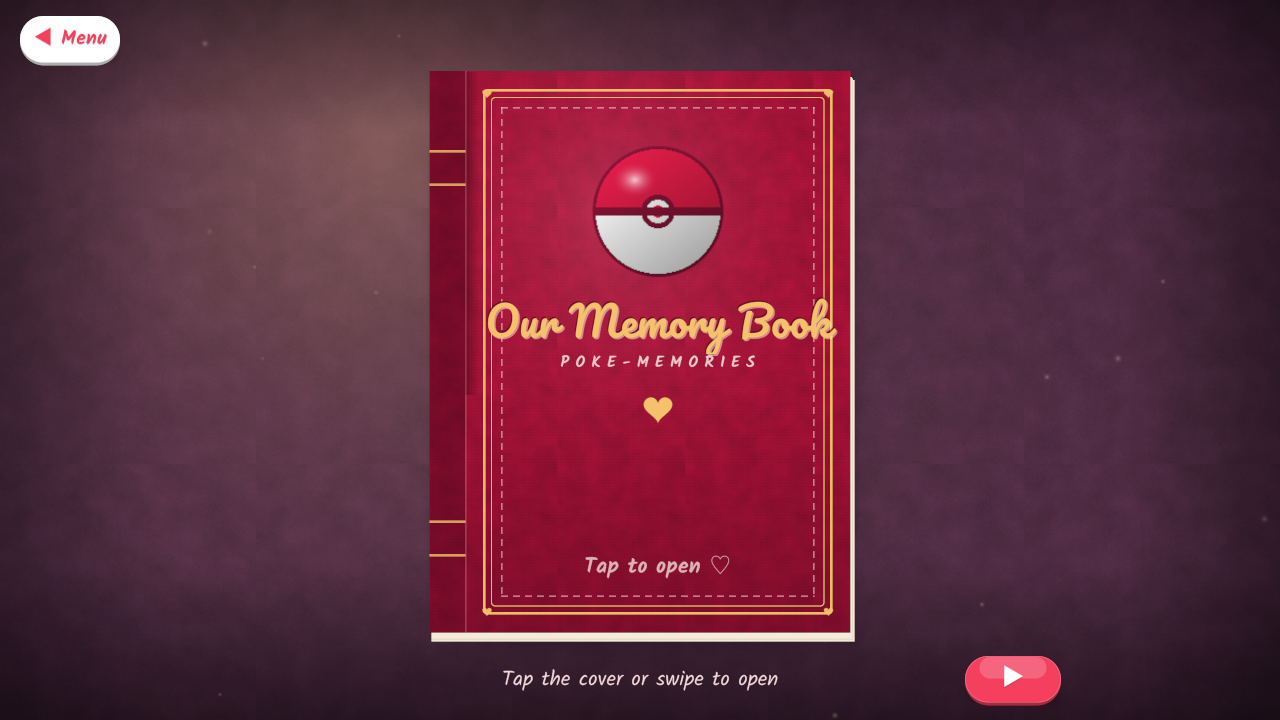
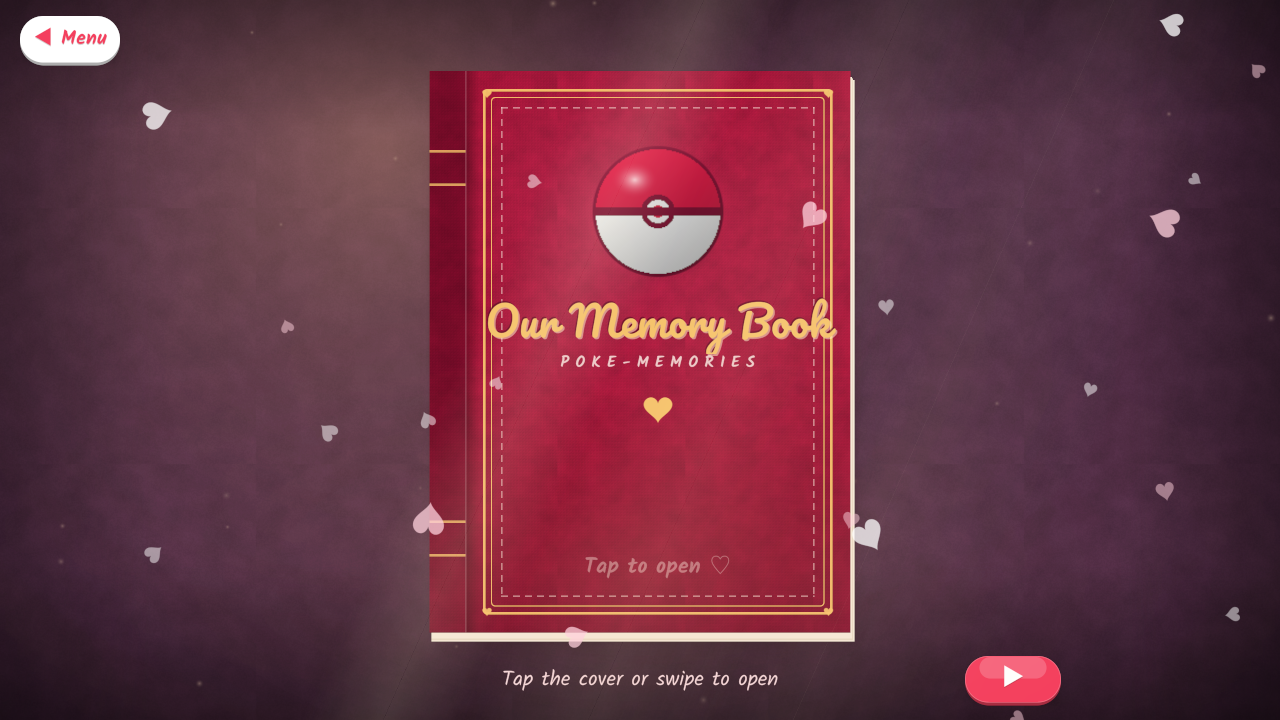
Polish: HUD, run-end card, petals and sun shafts; before/after screenshots

diff --git a/unity/Assets/Scripts/Gameplay/CourseGame.cs b/unity/Assets/Scripts/Gameplay/CourseGame.cs
@@ -462,72 +462,155 @@ namespace PokeMemories.Gameplay
         }
 
         // Cream drop shadow keeps the HUD readable over both the pale and the dark backgrounds.
-        static void ShadowLabel(Rect rect, string text, GUIStyle style)
+        static void ShadowLabel(Rect rect, string text, float size, Color colour, Font font = null, TextAnchor anchor = TextAnchor.MiddleCenter) =>
+            UIKit.ShadowLabel(rect, text, size, colour, UIKit.WithAlpha(UIKit.Hex("#5a0a22"), 0.55f), Mathf.Max(1.5f, size / 16f), anchor, false, FontStyle.Bold, font);
+
+        // Big centre-screen messages: deep rose letters with a cream halo read on every backdrop.
+        static void Message(Rect rect, string text, float size, Font font = null) =>
+            UIKit.ShadowLabel(rect, text, size, UIKit.Hex("#be123c"), UIKit.WithAlpha(UIKit.Hex("#fff3ec"), 0.95f), Mathf.Max(2f, size / 12f), TextAnchor.MiddleCenter, false, FontStyle.Bold, font);
+
+        static readonly Color Cream = new(1f, 0.96f, 0.93f);
+
+        /// <summary>A frosted rose capsule that holds HUD readouts.</summary>
+        static void Glass(Rect r, float alpha = 0.5f)
         {
-            var colour = style.normal.textColor;
-            style.normal.textColor = new Color(1f, 0.96f, 0.93f);
-            var offset = Mathf.Max(1f, style.fontSize / 14f);
-            GUI.Label(new Rect(rect.x + offset, rect.y + offset, rect.width, rect.height), text, style);
-            style.normal.textColor = colour;
-            GUI.Label(rect, text, style);
+            Look.Shadow(r, 8 * (r.height / 56f), 0.25f, new Vector2(0, 4));
+            Look.Round(r, UIKit.WithAlpha(UIKit.Hex("#6b1233"), alpha), r.height / 2);
+            Look.Round(new Rect(r.x + r.height * 0.25f, r.y + 2, r.width - r.height * 0.5f, r.height * 0.42f), UIKit.WithAlpha(Color.white, 0.12f), r.height * 0.21f);
+            Look.RoundOutline(r, UIKit.WithAlpha(Color.white, 0.35f), r.height / 2, 1.5f);
         }
+
+        /// <summary>A round glass button that dips when pressed; the rect doubles as its touch target.</summary>
+        static void GlassButton(Rect r, string text, float size, bool on, string key)
+        {
+            var over = r.Contains(UIInput.Position);
+            var down = over && UIInput.Pressed;
+            var press = Look.Spring("g" + key, down ? 1 : 0, 30);
+            var rect = new Rect(r.x + r.width * 0.02f * press, r.y + r.height * 0.02f * press, r.width * (1 - 0.04f * press), r.height * (1 - 0.04f * press));
+            Look.Shadow(rect, 8, 0.25f, new Vector2(0, 4 - press * 2));
+            Look.Round(rect, UIKit.WithAlpha(on ? UIKit.Hex("#f43f5e") : UIKit.Hex("#6b1233"), on ? 0.85f : 0.5f + press * 0.2f), rect.height * 0.5f);
+            Look.Round(new Rect(rect.x + rect.height * 0.2f, rect.y + 2, rect.width - rect.height * 0.4f, rect.height * 0.42f), UIKit.WithAlpha(Color.white, 0.14f), rect.height * 0.21f);
+            Look.RoundOutline(rect, UIKit.WithAlpha(Color.white, 0.4f), rect.height * 0.5f, 1.5f);
+            UIKit.Label(rect, text, size, Cream);
+        }
+
+        float resultTime;
 
         void OnGUI()
         {
             if (menu.Screen != GameScreen.Playing) return;
+            Look.Ensure();
+            if (!sim.Ended) resultTime = 0;
+            if (Event.current.type != EventType.Repaint) return;
             var scale = Screen.height / 720f;
-            var label = new GUIStyle(GUI.skin.label) { fontSize = Mathf.RoundToInt(30 * scale), fontStyle = FontStyle.Bold };
-            label.normal.textColor = new Color(0.75f, 0.1f, 0.4f);
+            var t = Time.unscaledTime;
 
-            var hearts = new string('♥', Mathf.Max(0, sim.Hearts)) + new string('♡', 3 - Mathf.Max(0, sim.Hearts));
-            var progress = mode == PlayMode.Course ? $"   {Mathf.RoundToInt(sim.Distance / CourseSimulation.CourseLength * 100)}%" : "";
-            ShadowLabel(new Rect(20 * scale, 14 * scale, Screen.width, 50 * scale),
-                $"{hearts}   ◓ {sim.Collected}   ★ {Mathf.RoundToInt(sim.TrickScore)}{progress}", label);
+            // Top-left readouts: hearts, pokeballs, trick score, and the course progress bar.
+            var hud = new Rect(16 * scale, 14 * scale, (mode == PlayMode.Course ? 400 : 330) * scale, 56 * scale);
+            Glass(hud);
+            for (var i = 0; i < 3; i++)
+            {
+                var full = i < sim.Hearts;
+                var c = new Vector2(hud.x + (28 + i * 34) * scale, hud.center.y);
+                if (full) Look.Tex(new Rect(c.x - 18 * scale, c.y - 15 * scale, 36 * scale, 36 * scale), Look.Glow, UIKit.WithAlpha(UIKit.Hex("#ff6b8f"), 0.35f));
+                Look.HeartAt(c, 26 * scale, full ? UIKit.Hex("#ff5c82") : UIKit.WithAlpha(Cream, 0.25f));
+            }
+            var ball = new Rect(hud.x + 126 * scale, hud.y + 13 * scale, 30 * scale, 30 * scale);
+            Look.Ball(ball);
+            UIKit.Label(new Rect(ball.xMax + 6 * scale, hud.y, 56 * scale, hud.height), $"{sim.Collected}", 28 * scale, Cream, TextAnchor.MiddleLeft);
+            var star = new Rect(hud.x + 232 * scale, hud.y + 14 * scale, 28 * scale, 28 * scale);
+            Look.Tex(star, Look.Sparkle, UIKit.Hex("#ffd36b"));
+            UIKit.Label(new Rect(star.xMax + 6 * scale, hud.y, 80 * scale, hud.height), $"{Mathf.RoundToInt(sim.TrickScore)}", 28 * scale, Cream, TextAnchor.MiddleLeft);
+            if (mode == PlayMode.Course)
+            {
+                var pct = Mathf.Clamp01(sim.Distance / CourseSimulation.CourseLength);
+                var bar = new Rect(hud.x + 20 * scale, hud.yMax + 10 * scale, hud.width - 40 * scale, 12 * scale);
+                Look.Shadow(bar, 4 * scale, 0.25f, new Vector2(0, 2));
+                Look.Round(bar, UIKit.WithAlpha(UIKit.Hex("#6b1233"), 0.55f), bar.height / 2);
+                if (pct > 0.01f)
+                {
+                    var fill = new Rect(bar.x, bar.y, Mathf.Max(bar.height, bar.width * pct), bar.height);
+                    Look.Round(fill, UIKit.Hex("#ff7f9c"), bar.height / 2);
+                    Look.Round(new Rect(fill.x + 3, fill.y + 1.5f, fill.width - 6, bar.height * 0.35f), UIKit.WithAlpha(Color.white, 0.4f), bar.height * 0.17f);
+                }
+                Look.HeartAt(new Vector2(bar.x + Mathf.Max(bar.height / 2, bar.width * pct), bar.center.y), 22 * scale, Cream);
+                UIKit.Label(new Rect(bar.xMax - 60 * scale, bar.yMax + 2 * scale, 60 * scale, 22 * scale), $"{Mathf.RoundToInt(pct * 100)}%", 16 * scale, Cream, TextAnchor.MiddleRight);
+            }
 
-            var center = new GUIStyle(label) { alignment = TextAnchor.MiddleCenter, fontSize = Mathf.RoundToInt(34 * scale) };
+            var title = Screen.height * 0.2f;
             if (!started)
             {
-                ShadowLabel(new Rect(0, Screen.height * 0.22f, Screen.width, 60 * scale), "Tap to start skating ♡", center);
-                ShadowLabel(new Rect(0, Screen.height * 0.22f + 55 * scale, Screen.width, 50 * scale),
-                    "Tap = jump (hold for higher) · land on rails to grind · tricks in the air", new GUIStyle(center) { fontSize = Mathf.RoundToInt(22 * scale) });
+                var bob = Mathf.Sin(t * 2.4f) * 4 * scale;
+                                Message(new Rect(0, title + bob, Screen.width, 70 * scale), "Tap to start skating", 48 * scale, Look.Title);
+                Message(new Rect(0, title + 66 * scale, Screen.width, 44 * scale),
+                    "Tap = jump (hold for higher) · land on rails to grind · tricks in the air", 22 * scale);
             }
             else if (sim.Ended)
             {
-                // A soft plate keeps the result readable over the dark sunset backdrops.
-                var plateWidth = Mathf.Min(Screen.width * 0.9f, 700 * scale);
-                UIKit.Fill(new Rect((Screen.width - plateWidth) / 2, Screen.height * 0.25f - 14 * scale, plateWidth, 250 * scale), UIKit.WithAlpha(Color.white, 0.55f));
-                ShadowLabel(new Rect(0, Screen.height * 0.25f, Screen.width, 60 * scale),
-                    sim.Completed ? "Sunset Course cleared! ♡" : "Out of hearts", center);
-                ShadowLabel(new Rect(0, Screen.height * 0.25f + 60 * scale, Screen.width, 50 * scale), "Tap to skate again", center);
-                var small = new GUIStyle(center) { fontSize = Mathf.RoundToInt(24 * scale) };
-                if (lastReward is { Earned: > 0 } reward)
-                {
-                    ShadowLabel(new Rect(0, Screen.height * 0.25f + 110 * scale, Screen.width, 40 * scale),
-                        $"You unlocked {reward.Earned} new {(reward.Earned == 1 ? "memory" : "memories")} ♡", small);
-                    bookButton = new Rect((Screen.width - 280 * scale) / 2, Screen.height * 0.25f + 160 * scale, 280 * scale, 60 * scale);
-                    UIKit.Button(bookButton, "Open Memory Book ♡", UIKit.Rose500, Color.white, 24 * scale);
-                }
-                else if (lastReward != null && !SaveStore.AllUnlocked)
-                    ShadowLabel(new Rect(0, Screen.height * 0.25f + 110 * scale, Screen.width, 40 * scale),
-                        $"{SaveStore.BallsToNextMemory} more Pokeballs to your next memory", small);
+                DrawResult(scale, t);
             }
             else if (sim.FeedbackTime > 0)
-                ShadowLabel(new Rect(0, Screen.height * 0.18f, Screen.width, 60 * scale), sim.Feedback, center);
+            {
+                var pop = Look.EaseOutBack(1 - Mathf.Clamp01(sim.FeedbackTime / 1.0f) + 0.35f);
+                var m = GUI.matrix;
+                GUIUtility.ScaleAroundPivot(Vector2.one * Mathf.Lerp(0.85f, 1f, Mathf.Clamp01(pop)), new Vector2(Screen.width / 2f, Screen.height * 0.18f + 30 * scale));
+                Message(new Rect(0, Screen.height * 0.18f, Screen.width, 64 * scale), sim.Feedback, 44 * scale, Look.Title);
+                GUI.matrix = m;
+            }
 
-            var autoStyle = new GUIStyle(GUI.skin.box) { fontSize = Mathf.RoundToInt(22 * scale), alignment = TextAnchor.MiddleCenter };
             autoButton = new Rect(Screen.width - 170 * scale, 14 * scale, 150 * scale, 56 * scale);
-            GUI.Box(autoButton, autoPlay ? "Auto: ON (A)" : "Auto: off (A)", autoStyle);
             menuButton = new Rect(Screen.width - 340 * scale, 14 * scale, 150 * scale, 56 * scale);
-            GUI.Box(menuButton, "Menu (Esc)", autoStyle);
+            GlassButton(autoButton, autoPlay ? "Auto: ON (A)" : "Auto: off (A)", 20 * scale, autoPlay, "auto");
+            GlassButton(menuButton, "Menu (Esc)", 20 * scale, false, "menu");
             if (!sim.Ended || lastReward is not { Earned: > 0 }) bookButton = Rect.zero;
 
-            var button = new GUIStyle(GUI.skin.box) { fontSize = Mathf.RoundToInt(24 * scale), alignment = TextAnchor.MiddleCenter };
             float w = 150 * scale, h = 90 * scale, gap = 14 * scale;
             for (var i = 0; i < TrickInputs.Length; i++)
             {
                 trickButtons[i] = new Rect(Screen.width - (w + gap) * (TrickInputs.Length - i), Screen.height - h - gap, w, h);
-                GUI.Box(trickButtons[i], TrickInputs[i].label, button);
+                GlassButton(trickButtons[i], TrickInputs[i].label, 24 * scale, false, "t" + i);
             }
+        }
+
+        // The run-end card: a taped sheet of paper with the result, rewards and a way into the book.
+        void DrawResult(float scale, float t)
+        {
+            var enter = Look.EaseOutBack(resultTime / 0.5f);
+            resultTime += Time.unscaledDeltaTime;
+            var w = Mathf.Min(Screen.width * 0.9f, 640 * scale);
+            var h = (lastReward is { Earned: > 0 } ? 320 : 200) * scale;
+            var card = new Rect((Screen.width - w) / 2, Screen.height * 0.25f - 14 * scale + (1 - enter) * 40 * scale, w, h);
+            var old = GUI.color;
+            GUI.color = new Color(1, 1, 1, Mathf.Clamp01(resultTime / 0.2f));
+            var m = GUI.matrix;
+            GUIUtility.ScaleAroundPivot(Vector2.one * (0.94f + 0.06f * Mathf.Clamp01(enter)), card.center);
+            UIKit.Rotated(-0.8f, card, () =>
+            {
+                Look.Shadow(card, 26 * scale, 0.4f, new Vector2(0, 14 * scale));
+                Look.Round(card, UIKit.Hex("#fffaf4"), 18 * scale);
+                GUI.BeginClip(card);
+                Look.Tiled(new Rect(0, 0, card.width, card.height), Look.Paper, 400 * scale, UIKit.Hex("#fff3ec"));
+                Look.FadeDown(new Rect(0, 0, card.width, 90 * scale), UIKit.WithAlpha(UIKit.Hex("#fda4af"), 0.25f));
+                GUI.EndClip();
+                Look.RoundOutline(new Rect(card.x + 10 * scale, card.y + 10 * scale, card.width - 20 * scale, card.height - 20 * scale), UIKit.WithAlpha(UIKit.Rose300, 0.55f), 12 * scale, 1.5f * scale);
+                UIKit.DrawTape(new Rect(card.center.x - 38 * scale, card.y + 10 * scale, 76 * scale, 1), sim.Completed ? 1 : 4, scale * 1.3f);
+                UIKit.Label(new Rect(card.x, card.y + 24 * scale, card.width, 80 * scale), sim.Completed ? "Sunset Course cleared!" : "Out of hearts", 44 * scale, UIKit.Rose600, TextAnchor.MiddleCenter, false, FontStyle.Normal, Look.Title);
+                if (sim.Completed) Look.HeartAt(new Vector2(card.xMax - 56 * scale, card.y + 52 * scale + Mathf.Sin(t * 2.5f) * 3 * scale), 28 * scale, UIKit.Rose400);
+                UIKit.Label(new Rect(card.x, card.y + 100 * scale, card.width, 40 * scale), "Tap to skate again", 26 * scale, UIKit.Rose500);
+                var small = 24 * scale;
+                if (lastReward is { Earned: > 0 } reward)
+                {
+                    UIKit.Label(new Rect(card.x, card.y + 148 * scale, card.width, 40 * scale),
+                        $"You unlocked {reward.Earned} new {(reward.Earned == 1 ? "memory" : "memories")} ♡", small, UIKit.Rose600);
+                    bookButton = new Rect((Screen.width - 300 * scale) / 2, card.y + 206 * scale, 300 * scale, 64 * scale);
+                }
+                else if (lastReward != null && !SaveStore.AllUnlocked)
+                    UIKit.Label(new Rect(card.x, card.y + 148 * scale, card.width, 40 * scale),
+                        $"{SaveStore.BallsToNextMemory} more Pokeballs to your next memory", small, UIKit.Rose400);
+            });
+            if (lastReward is { Earned: > 0 }) UIKit.Button(bookButton, "Open Memory Book ♡", UIKit.Rose500, Color.white, 24 * scale);
+            GUI.matrix = m;
+            GUI.color = old;
         }
     }
 }

diff --git a/unity/Assets/Scripts/Gameplay/VisualPolish.cs b/unity/Assets/Scripts/Gameplay/VisualPolish.cs
@@ -1,3 +1,4 @@
+using PokeMemories.Menu;
 using UnityEngine;
 using UnityEngine.Rendering;
 using UnityEngine.Rendering.Universal;
@@ -93,6 +94,55 @@ namespace PokeMemories.Gameplay
             trail.time = 0.2f + intensity * 0.3f;
             skaterGlow.intensity = 0.3f + intensity * 0.5f + sim.BoostPulse * 0.3f;
             bloom.intensity.value = 0.45f + intensity * 0.35f + sim.BoostPulse * 0.25f;
+        }
+
+        float flow = 1;
+
+        /// <summary>
+        /// Atmosphere over the whole scene: warm slanted sun shafts and drifting petals. Purely
+        /// cosmetic and screen-space, so it never touches the simulation or the sprites.
+        /// </summary>
+        void OnGUI()
+        {
+            if (Event.current.type != EventType.Repaint) return;
+            Look.Ensure();
+            float W = Screen.width, H = Screen.height, k = H / 720f, t = Time.time;
+            var pace = sim != null ? sim.Pace : 1f;
+            flow = Mathf.Lerp(flow, pace, 0.05f);
+
+            // Soft shafts of low sun, slowly breathing.
+            for (var i = 0; i < 3; i++)
+            {
+                var width = (150 + i * 90) * k;
+                var rect = new Rect(W * (0.55f + i * 0.16f) - width / 2, -H * 0.2f, width, H * 1.5f);
+                var matrix = GUI.matrix;
+                GUIUtility.RotateAroundPivot(24, new Vector2(rect.center.x, 0));
+                var a = (0.09f + 0.04f * Mathf.Sin(t * 0.5f + i * 2f)) * (i == 1 ? 1.3f : 1f);
+                Look.FadeLeft(new Rect(rect.x, rect.y, rect.width / 2, rect.height), UIKit.WithAlpha(UIKit.Hex("#fff0c9"), a));
+                Look.FadeRight(new Rect(rect.center.x, rect.y, rect.width / 2, rect.height), UIKit.WithAlpha(UIKit.Hex("#fff0c9"), a));
+                GUI.matrix = matrix;
+            }
+            Look.Tex(new Rect(-W * 0.1f, H * 0.35f, W * 1.2f, H * 0.9f), Look.Glow, UIKit.WithAlpha(UIKit.Hex("#ffb27a"), 0.12f));
+
+            // Petals: two depth layers, near ones larger and quicker.
+            for (var i = 0; i < 26; i++)
+            {
+                var near = i % 3 == 0;
+                var seed = i * 17.37f;
+                var speed = (near ? 70f : 36f) * k;
+                var drift = flow * (near ? 150f : 70f) * k;
+                var x = Mathf.Repeat(Mathf.Sin(seed) * 9999f - t * drift - t * speed * 0.3f, W + 120 * k) - 60 * k;
+                var y = Mathf.Repeat(Mathf.Sin(seed * 1.3f) * 7777f + t * speed, H + 80 * k) - 40 * k;
+                x += Mathf.Sin(t * 1.3f + seed) * 14 * k;
+                var size = (near ? 32f : 18f) * k * (0.8f + 0.4f * Mathf.Repeat(seed, 1f));
+                var angle = t * (40 + i * 5) + seed * 30;
+                var centre = new Vector2(x, y);
+                var matrix = GUI.matrix;
+                GUIUtility.RotateAroundPivot(angle, centre);
+                var tint = i % 2 == 0 ? UIKit.Hex("#ffd1dc") : UIKit.Hex("#ffffff");
+                Look.Tex(new Rect(x - size / 2, y - size / 2, size, size * 1.15f), Look.Heart, UIKit.WithAlpha(tint, near ? 0.75f : 0.5f));
+                GUI.matrix = matrix;
+            }
         }
 
         void OnDestroy()

diff --git a/unity/Assets/Scripts/Menu/Look.cs b/unity/Assets/Scripts/Menu/Look.cs
@@ -369,6 +369,23 @@ namespace PokeMemories.Menu
             GUI.color = old;
         }
 
+        /// <summary>A small flat pokeball icon, drawn from rounded shapes.</summary>
+        public static void Ball(Rect r)
+        {
+            var ink = UIKit.Ink;
+            Round(new Rect(r.x - 1.5f, r.y - 1.5f, r.width + 3, r.height + 3), ink, r.width);
+            GUI.BeginClip(new Rect(r.x, r.y, r.width, r.height / 2));
+            Round(new Rect(0, 0, r.width, r.height), UIKit.Rose600, r.width);
+            GUI.EndClip();
+            GUI.BeginClip(new Rect(r.x, r.y + r.height / 2, r.width, r.height / 2));
+            Round(new Rect(0, -r.height / 2, r.width, r.height), Color.white, r.width);
+            GUI.EndClip();
+            UIKit.Fill(new Rect(r.x, r.center.y - r.height * 0.07f, r.width, r.height * 0.14f), ink);
+            Round(new Rect(r.center.x - r.width * 0.17f, r.center.y - r.width * 0.17f, r.width * 0.34f, r.width * 0.34f), ink, r.width);
+            Round(new Rect(r.center.x - r.width * 0.1f, r.center.y - r.width * 0.1f, r.width * 0.2f, r.width * 0.2f), Color.white, r.width);
+            Round(new Rect(r.x + r.width * 0.2f, r.y + r.height * 0.14f, r.width * 0.26f, r.height * 0.14f), UIKit.WithAlpha(Color.white, 0.55f), r.width);
+        }
+
         public static void HeartAt(Vector2 centre, float size, Color colour) =>
             Tex(new Rect(centre.x - size / 2, centre.y - size / 2, size, size), Heart, colour);
 
